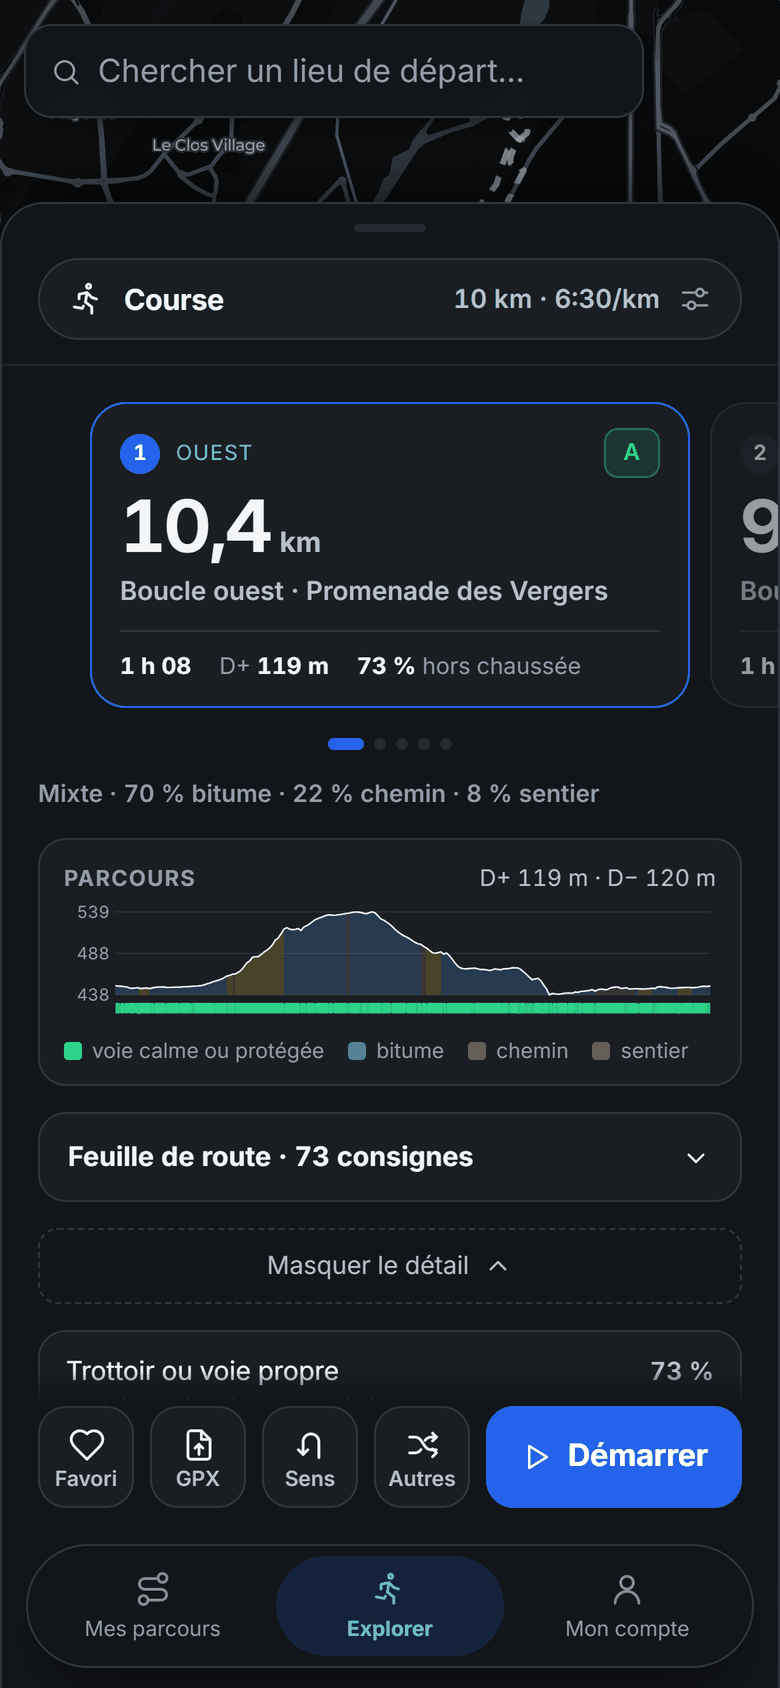
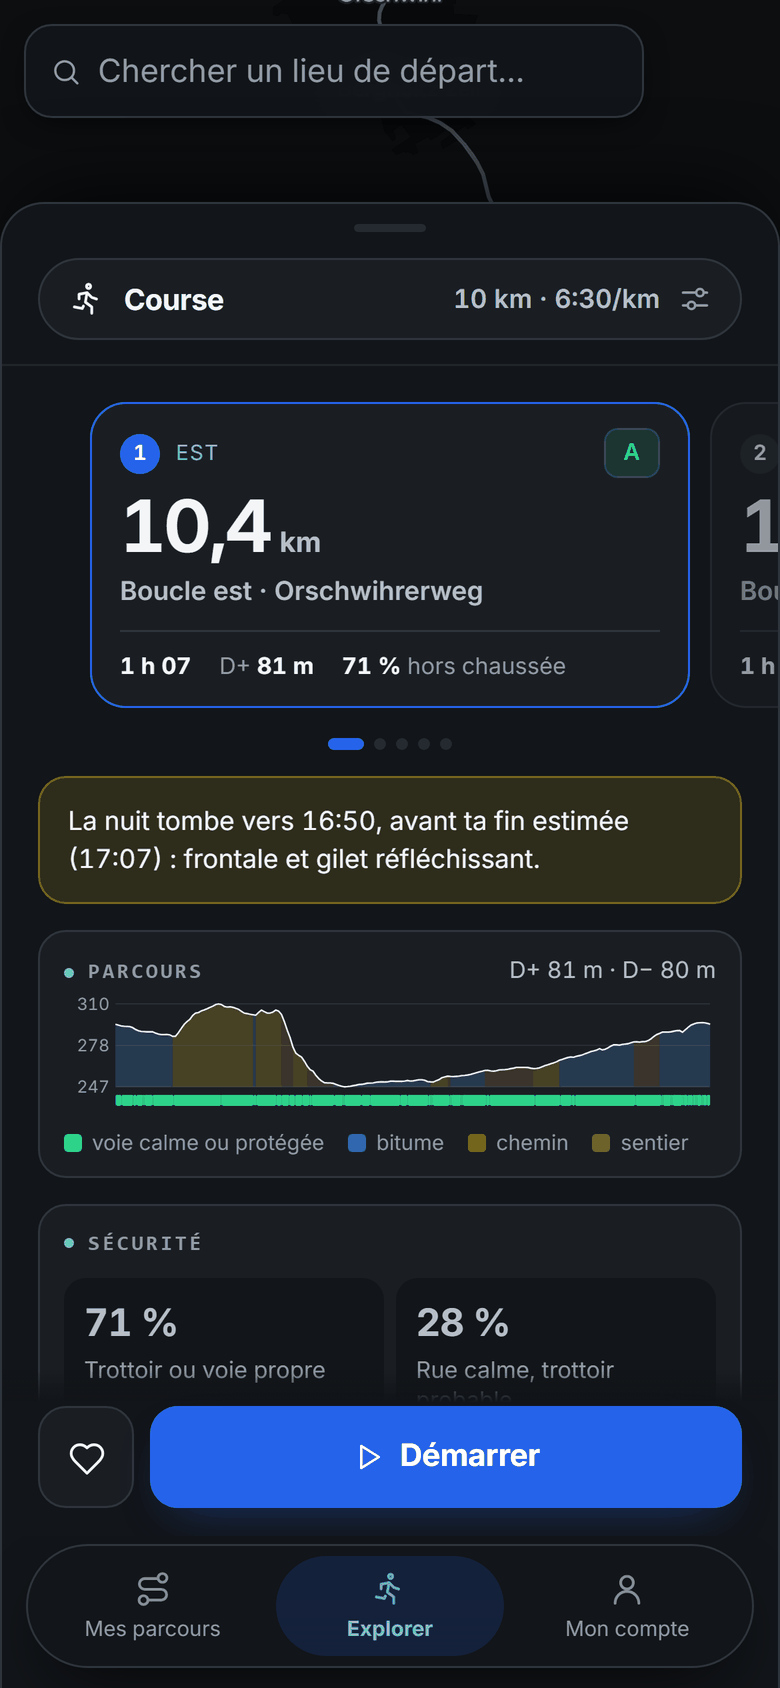
Le README montre l'app d'aujourd'hui : boucles, détail, filtres, réglages en lignes et fonds de carte refaits à taille d'iPhone par un script rejouable

diff --git a/frontend/scripts/captures.py b/frontend/scripts/captures.py
@@ -1,0 +1,34 @@
+"""Réduit les captures de `captures.mjs` au format de la doc : 780 px, 256 couleurs.
+
+    python scripts/captures.py
+
+Lit `docs/images/raw/*.png`, écrit `docs/images/<nom>.png`, puis efface les originaux.
+À 3×, une capture pèse plus d'un mégaoctet : le README en montre six.
+"""
+
+from __future__ import annotations
+
+import shutil
+from pathlib import Path
+
+from PIL import Image
+
+IMAGES = Path(__file__).resolve().parents[2] / "docs" / "images"
+WIDTH = 780
+
+
+def main() -> None:
+    raw = IMAGES / "raw"
+    for path in sorted(raw.glob("*.png")):
+        image = Image.open(path).convert("RGB")
+        height = round(image.height * WIDTH / image.width)
+        small = image.resize((WIDTH, height), Image.LANCZOS).quantize(colors=256, method=Image.MEDIANCUT)
+        small.save(IMAGES / path.name, optimize=True)
+        print(f"{path.name} : {(IMAGES / path.name).stat().st_size // 1024} Ko")
+        path.unlink()
+    # OneDrive verrouille parfois le dossier vide : il est ignoré par git, il peut rester.
+    shutil.rmtree(raw, ignore_errors=True)
+
+
+if __name__ == "__main__":
+    main()

diff --git a/scripts/altstore_source.py b/scripts/altstore_source.py
@@ -51,7 +51,7 @@ RELEASES = "https://github.com/ImShimao/lacet/releases/download"
 
 DESCRIPTION = (
     "Des boucles de course et de vélo depuis ta porte, qui évitent les routes "
-    "rapides sans trottoir. Jusqu'à douze propositions notées A, B ou C, "
+    "rapides sans trottoir. Jusqu'à vingt propositions notées A, B ou C, "
     "guidage vocal tour par tour, écran de verrouillage, recalcul si tu t'en "
     "écartes, et tout qui se calcule sur le téléphone — sans compte ni serveur."
 )

diff --git a/README.md b/README.md
@@ -32,13 +32,13 @@ sécurité, puis te guide à la voix, écran verrouillé.
 
 <div align="center">
 
-| Les boucles proposées | En course |
+| Les boucles proposées | Le détail |
 | :---: | :---: |
-| <img src="docs/images/1-boucles.png" width="300" alt="Une boucle de 10,4 km au départ de la vieille ville d'Annecy, notée A, tracée en vert sur la carte sombre, les autres propositions en pointillés, la barre Favori, GPX, Sens, Autres et Démarrer en bas"> | <img src="docs/images/2-course.png" width="300" alt="Pendant la sortie : « 30 m, tourne franchement à gauche sur le quai des Clarisses » en bandeau bleu, la carte inclinée, le chrono, la distance restante et le bouton pause en bas"> |
+| <img src="docs/images/1-boucles.png" width="300" alt="Une boucle de 10,4 km au départ de Guebwiller, notée A, tracée en vert sur la carte sombre avec ses flèches de sens, les autres propositions en pointillés, et le bouton Démarrer"> | <img src="docs/images/3-detail.png" width="300" alt="Le détail d'une boucle : la carte de la proposition, l'avis sur la nuit qui tombe, le profil de dénivelé coloré par revêtement et la part de voies protégées"> |
 
-| Le détail | Le survol 3D | Les filtres | L'apparence |
+| En course | Les filtres | Les réglages | Les fonds de carte |
 | :---: | :---: | :---: | :---: |
-| <img src="docs/images/3-detail.png" width="200" alt="Le détail d'une boucle : revêtement, profil de dénivelé coloré par sécurité, feuille de route repliée"> | <img src="docs/images/4-survol.png" width="200" alt="Le survol 3D : une pastille court sur la boucle inclinée, la part déjà survolée en blanc, la distance et l'altitude en haut"> | <img src="docs/images/5-filtres.png" width="200" alt="Les filtres : course ou vélo, durée ou distance, 10 km souple à ±10 %, allure 6:30/km"> | <img src="docs/images/6-reglages.png" width="200" alt="Mon compte › Apparence : thème auto, sombre ou clair, couleur d'accent bleu, violet, framboise ou graphite, taille du texte"> |
+| <img src="docs/images/2-course.png" width="200" alt="Pendant la sortie : la consigne en bandeau bleu, la carte inclinée, le chrono, la distance restante et le bouton pause"> | <img src="docs/images/5-filtres.png" width="200" alt="Les filtres : course ou vélo, durée ou distance, 10 km souple à ±10 %, allure 6:30/km toujours visible"> | <img src="docs/images/6-reglages.png" width="200" alt="Mon compte › Guidage et voix : une ligne par réglage, sa valeur et un menu, ou un interrupteur"> | <img src="docs/images/7-fonds.png" width="200" alt="La feuille Style de carte : un aperçu en grand et huit vignettes rendues sur l'endroit affiché"> |
 
 </div>
 
@@ -106,7 +106,7 @@ Le détail : [L'app iPhone](docs/app-iphone.md).
 
 | | |
 | --- | --- |
-| 🔁 **Des boucles** | Jusqu'à douze propositions qui partent dans des directions différentes et reviennent à la porte : 10 km, un semi au mètre près, ou une durée. Chaque recherche en tire d'autres, dans un autre ordre |
+| 🔁 **Des boucles** | Jusqu'à vingt propositions qui partent dans des directions différentes et reviennent à la porte : 10 km, un semi au mètre près, ou une durée. Chaque recherche en tire d'autres, dans un autre ordre |
 | ➰ **La forme au choix** | Une boucle entière, deux boucles en « 8 » qui repassent à la porte, ou plusieurs tours d'une même boucle — ou laisser Lacet choisir |
 | 🚸 **Le bon côté** | Au rond-point, on fait le tour du côté où l'on court : à gauche face aux voitures par défaut, comme le veut le code de la route ; la voix le dit en une phrase |
 | 🛡 **Note A, B ou C** | Chaque tronçon est jugé : vitesse de la voie, trottoir ou piste séparée, éclairage la nuit, traversées protégées. Ce qui ne passe pas est écarté, et l'app dit pourquoi |
@@ -116,7 +116,7 @@ Le détail : [L'app iPhone](docs/app-iphone.md).
 | 🧭 **Recalcul** | Vingt secondes hors du tracé, et un nouveau chemin part d'où tu es, calculé sur le téléphone, en tenant la distance prévue plutôt qu'en ramenant au plus près |
 | 📴 **Sans réseau** | Les rues d'Alsace sont livrées avec l'app ; ailleurs, elles se téléchargent une fois et restent. Le fond de carte se garde parcours par parcours |
 | 🌳 **Parcs et bords de l'eau** | À sécurité égale, les boucles préfèrent les parcs, les bois, l'eau et les sentiers balisés — sans rien céder sur la note |
-| 🌬 **Vent et relief** | Le dernier tiers se court vent dans le dos quand il souffle à plus de 12 km/h ; plat, vallonné, côtes ou un D+ précis se choisit dans les filtres, et le moteur va chercher le bon terrain |
+| 🌬 **Vent et relief** | Le dernier tiers se court vent dans le dos quand il souffle à plus de 12 km/h ; plat, vallonné, côtes ou un D+ précis se choisit dans les filtres, avec un badge qui dit d'avance si le terrain autour s'y prête |
 | 📍 **Passer par un point** | Un parc, une fontaine : toutes les boucles y passent, notées comme les autres |
 | 🚫 **Zone à éviter** | Un cercle de 100 m à 2 km que les boucles et le recalcul contournent, gardé d'une recherche à l'autre |
 | 🎥 **Survol 3D** | La boucle survolée sur le relief avant de partir, dix-sept secondes pour 10 km |
@@ -124,7 +124,9 @@ Le détail : [L'app iPhone](docs/app-iphone.md).
 | 💧 **Points d'eau** | Ceux qui bordent la boucle s'affichent, et la voix prévient cent mètres avant |
 | 🆘 **SOS** | Un bouton prépare un SMS avec ta position ; un proche peut recevoir l'heure prévue du retour |
 | 🚴 **Course ou vélo** | Allure en min/km ou vitesse en km/h, pause automatique aux feux ; à vélo, la voix donne les kilomètres tous les 5 km |
-| 🎨 **Apparence** | Thème sombre, clair ou celui de l'iPhone, quatre couleurs d'accent, texte agrandi |
+| 🎨 **Apparence** | Thème sombre, clair ou celui de l'iPhone, quatre couleurs d'accent, texte agrandi, huit fonds de carte en vignettes |
+| ⚙ **Réglages en lignes** | Une ligne par réglage, sa valeur et un menu : voix, débit, anticipation des consignes, recalcul et arrivée automatiques, sécurité, direction, forme, voies à éviter |
+| 📝 **Rapport de sortie** | Depuis le bilan, un fichier JSON — trace, voix, précision du GPS, recalculs, réglages — pour comprendre une sortie qui s'est mal passée |
 | 🙈 **Rien ne part** | Pas de compte, pas de serveur, pas de suivi : favoris, sorties et réglages restent sur le téléphone |
 
 ### Les gestes sur la carte 👆

diff --git a/CLAUDE.md b/CLAUDE.md
@@ -95,7 +95,9 @@ règles relatives de `.claude/settings.json` cessent alors de protéger les doss
   - `performances.md` (appareil, moteur Python, robustesse) · `developper.md` (démarrer, lancer,
     tester) · `limites.md` (limites, suite)
 - Les captures de `docs/images/` viennent de l'aperçu à taille d'iPhone (390 × 844, 3×), réduites à
-  780 px et ramenées à 256 couleurs : à refaire quand l'écran qu'elles montrent change.
+  780 px et ramenées à 256 couleurs : à refaire quand l'écran qu'elles montrent change, avec
+  `node scripts/captures.mjs` puis `python scripts/captures.py` dans `frontend/` (dev lancé).
+  « En course » (`2-course`) et « Le survol 3D » (`4-survol`) viennent du téléphone.
 - Lance seulement les tests liés au fichier modifié, pas toute la suite, sauf avant un commit.
   Un changement du moteur ajoute toujours `parity.test.js`.
 - Avant d'écrire du nouveau code, vérifie si une fonction existante du projet fait déjà le travail.
